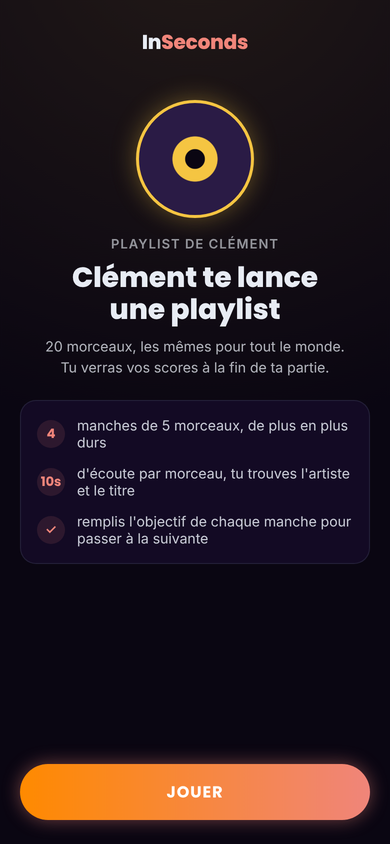
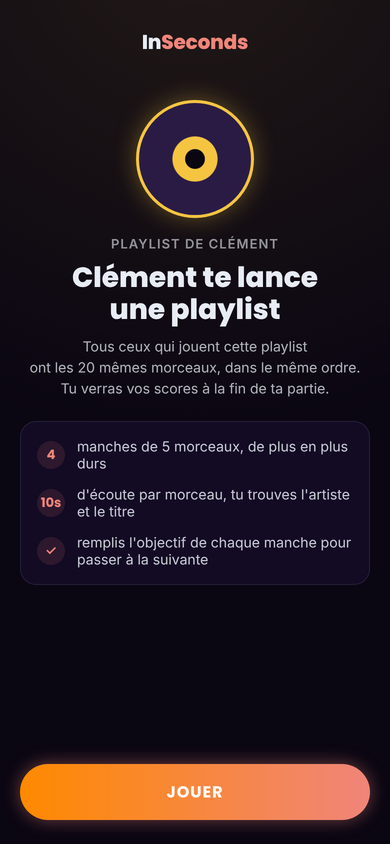
docs(runs): lien reçu, les 20 mêmes morceaux pour cette playlist

Changed region(s): [[0.0923, 0.4005, 0.9231, 0.6777]]

diff --git a/docs/runs/ecrans.md b/docs/runs/ecrans.md
@@ -121,7 +121,7 @@ Même mise en page dans les deux cas :
 Ce que voit un ami qui ouvre `inseconds.cc/runs/<code>` sans avoir encore joué cette playlist, invité compris, avec ou sans accès à Platines :
 - le logo seul en haut (ni série, ni compte : l'écran doit marcher pour un invité tout neuf) ;
 - le disque d'or, le surtitre « PLAYLIST DE CLÉMENT » (pseudo de l'auteur, « Invité » à défaut), le titre « Clément te lance une playlist » ;
-- « 20 morceaux, les mêmes pour tout le monde. Tu verras vos scores à la fin de ta partie. » : la comparaison n'est visible qu'après avoir joué (réponse à `runs.comparison_locked`) ;
+- « Tous ceux qui jouent cette playlist ont les 20 mêmes morceaux, dans le même ordre. Tu verras vos scores à la fin de ta partie. » : la comparaison n'est visible qu'après avoir joué (réponse à `runs.comparison_locked`) ;
 - trois règles : 4 manches de 5 morceaux de plus en plus durs, 10 s d'écoute pour trouver l'artiste et le titre, l'objectif de chaque manche à remplir ;
 - **« JOUER »**, qui crée l'invité si besoin et lance la partie (le son démarre à ce clic) ;
 
